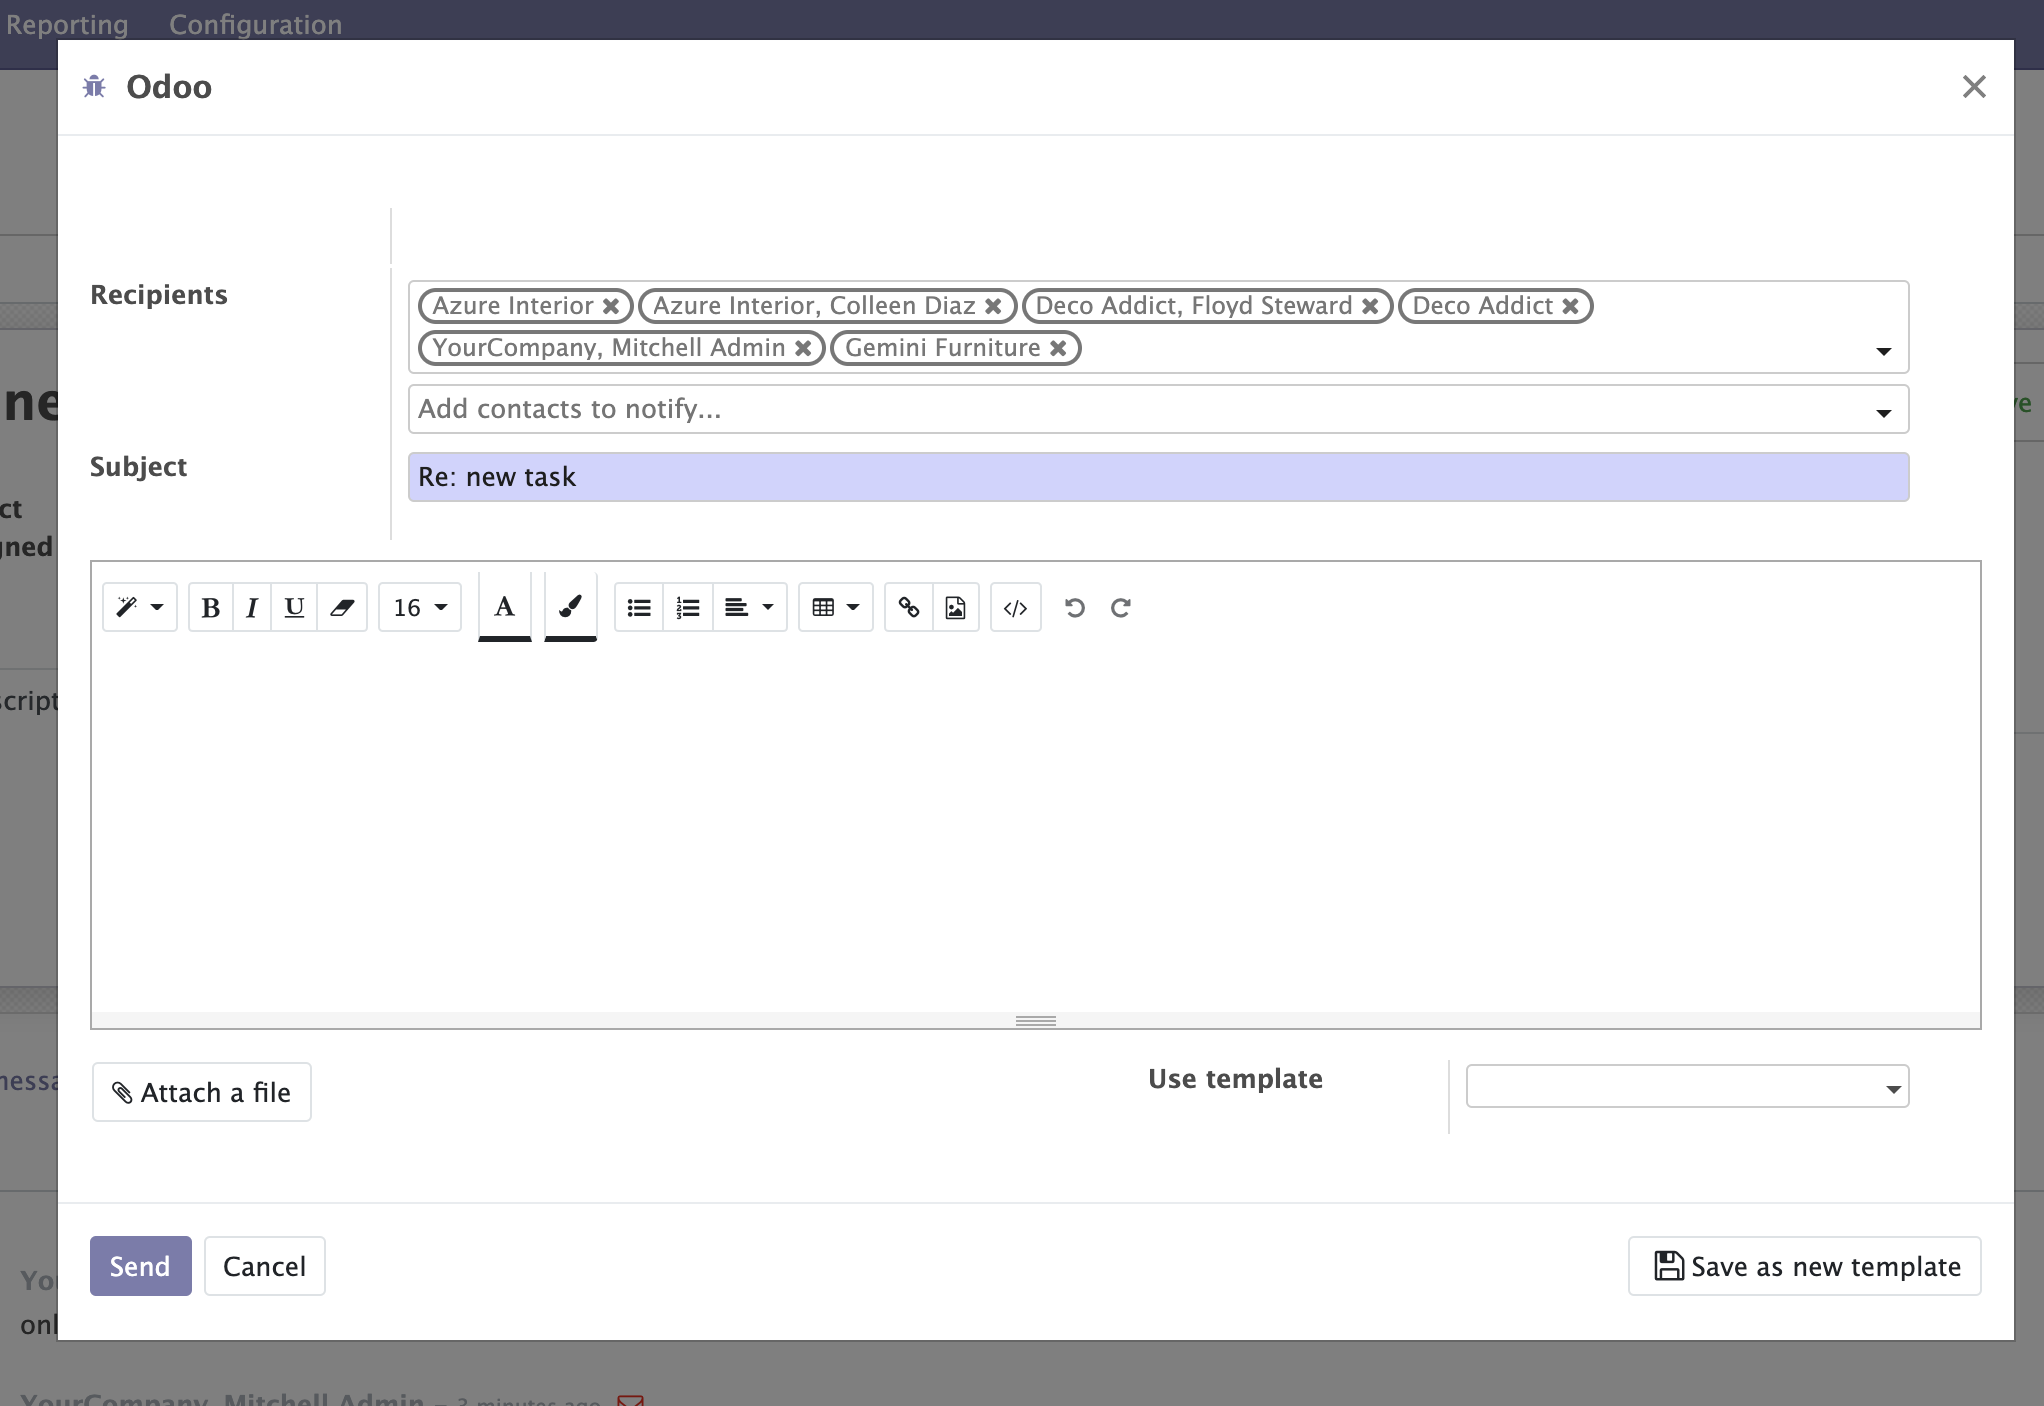
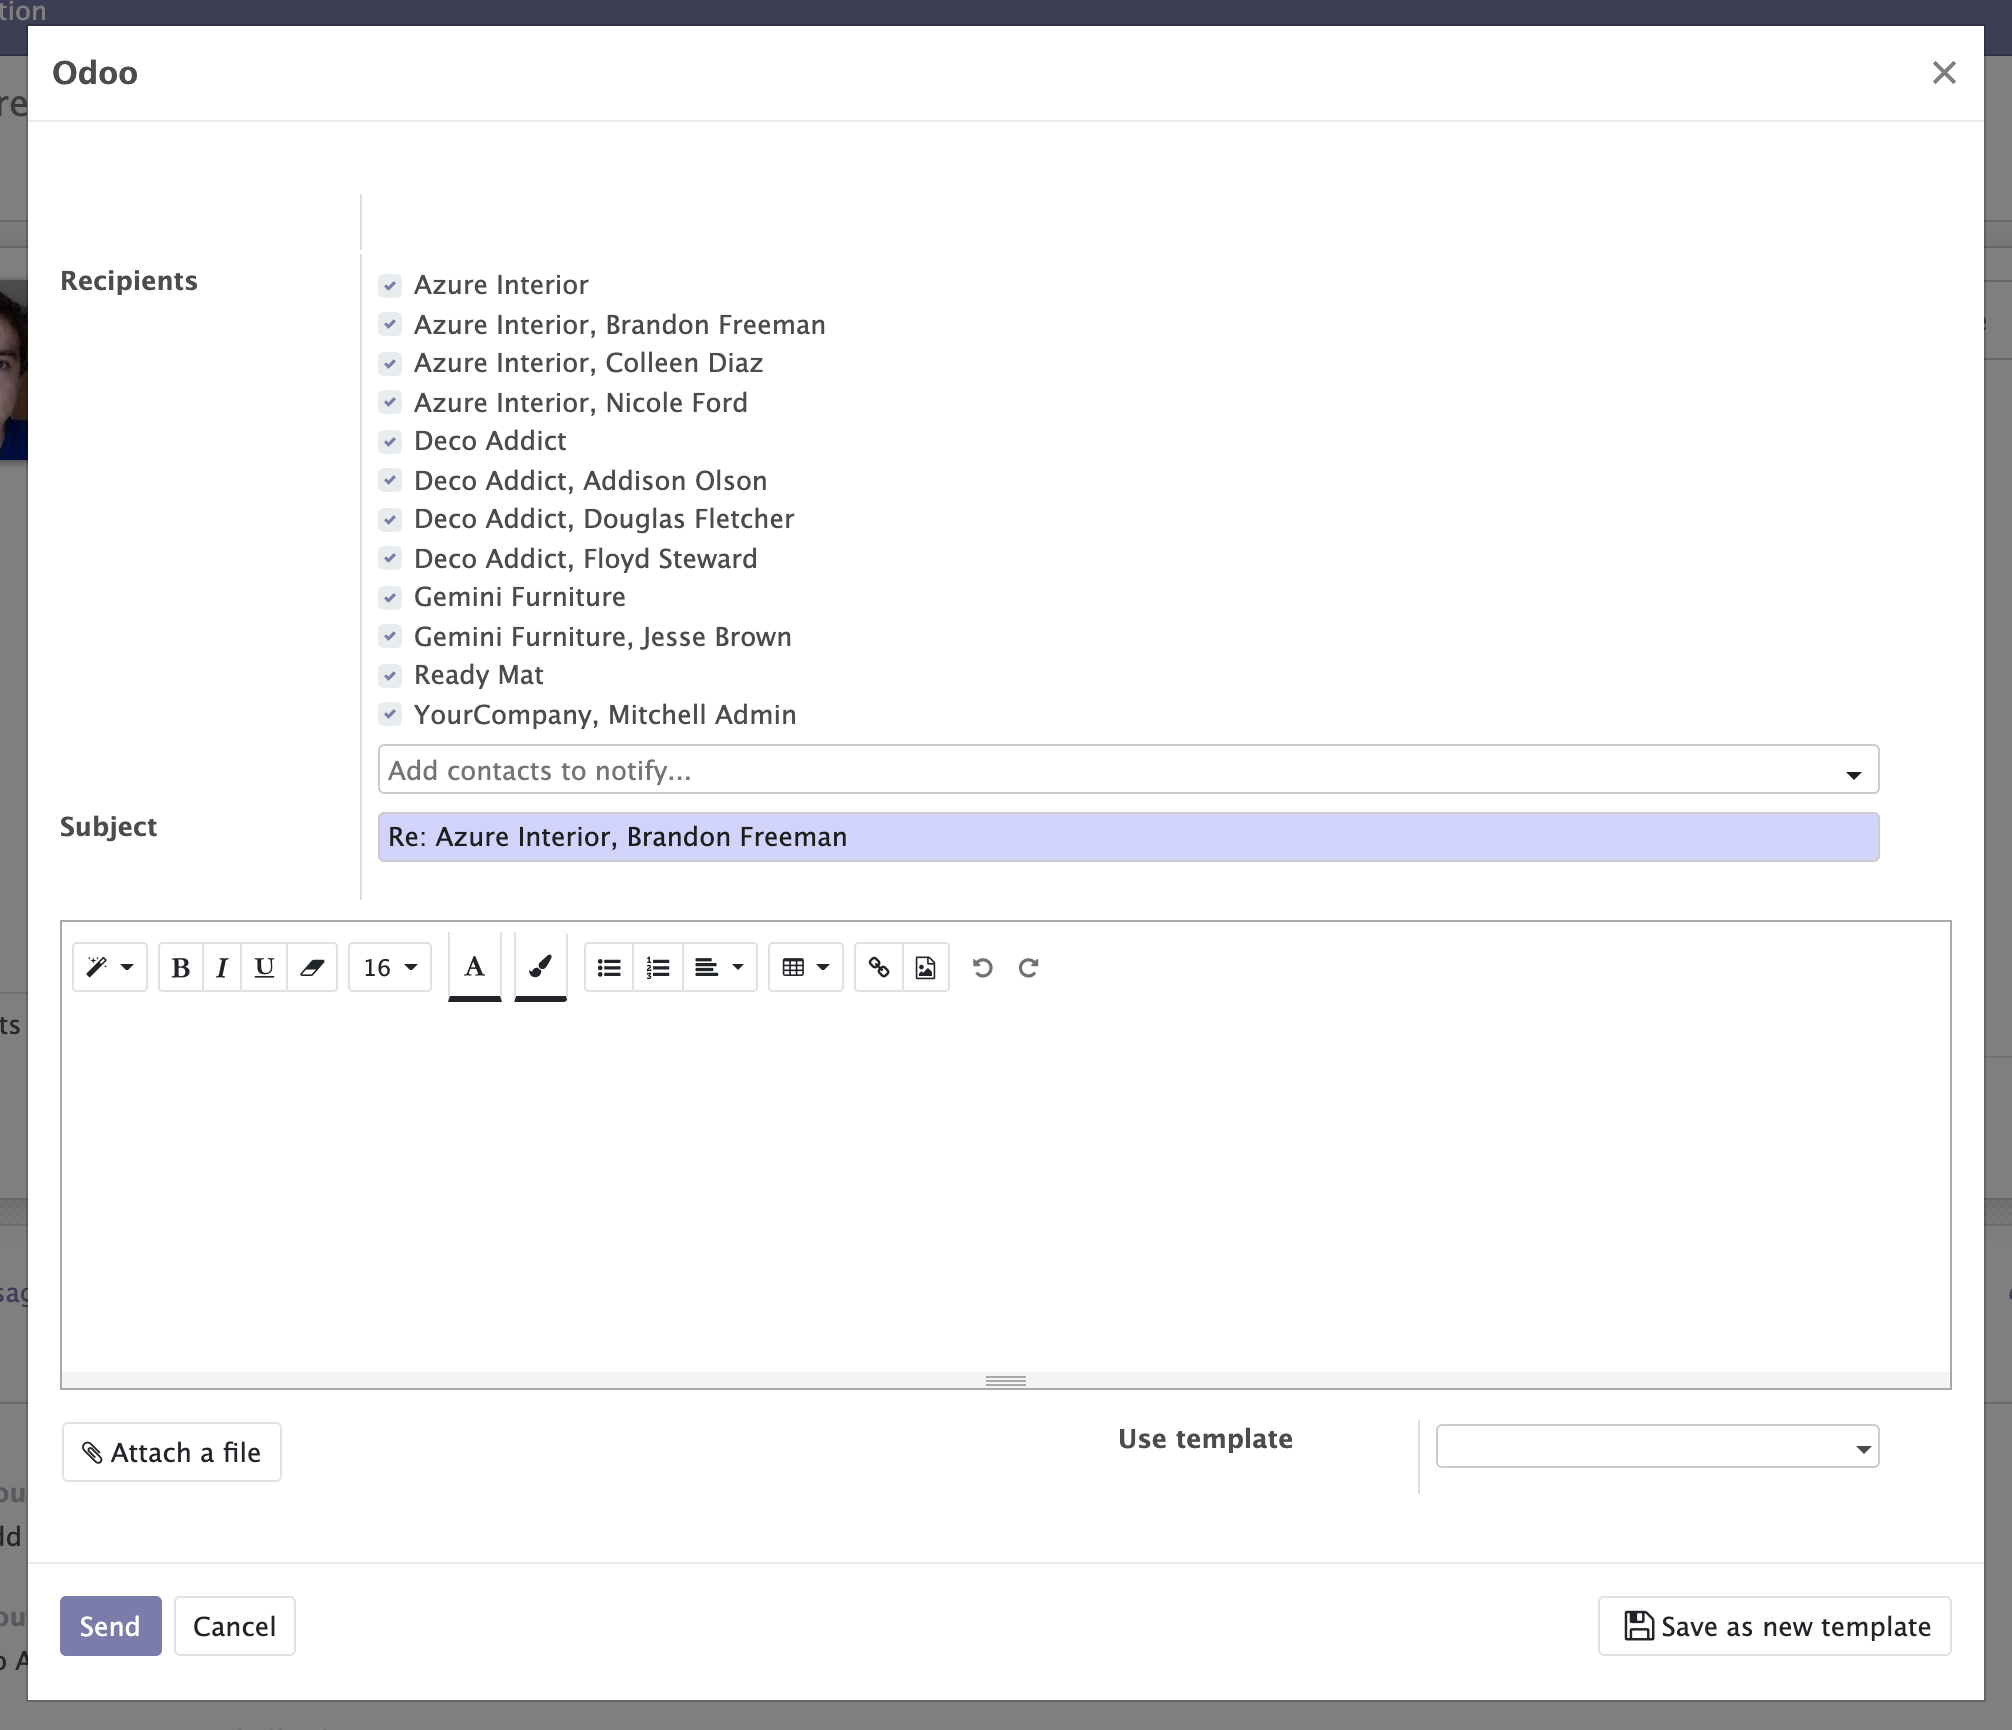
Use many2many_checkboxes widget
No option to add followers from the wizard. It is not the place to do so
anyway. The wizard is meant to compose the mail.

diff --git a/mail_follower_picker/models.py b/mail_follower_picker/models.py
@@ -1,7 +1,10 @@
 # © 2019 Numigi (tm) and all its contributors (https://bit.ly/numigiens)
 # License LGPL-3.0 or later (http://www.gnu.org/licenses/lgpl).
 
+import logging
 from odoo import models, fields, api
+
+_logger = logging.getLogger(__name__)
 
 
 class MailComposeMessageFollowers(models.TransientModel):
@@ -18,7 +21,7 @@ class MailComposeMessageFollowers(models.TransientModel):
 
         :rtype: recordset of res.partners
         """
-        result = super().default_get(['model', 'res_id'])
+        result = self.default_get(['model', 'res_id'])
         res_id = result['res_id']
         model = result['model']
         record = self.env[model].browse(res_id)
@@ -48,4 +51,5 @@ class MailFollowersCustomFollowers(models.Model):
         follower_ids = self.env.context.get('custom_followers')
         if follower_ids:
             res = [r for r in res if r[0] in follower_ids.mapped('id')]
+            _logger.info('Sending email to partial list of followers: %s', follower_ids)
         return res
